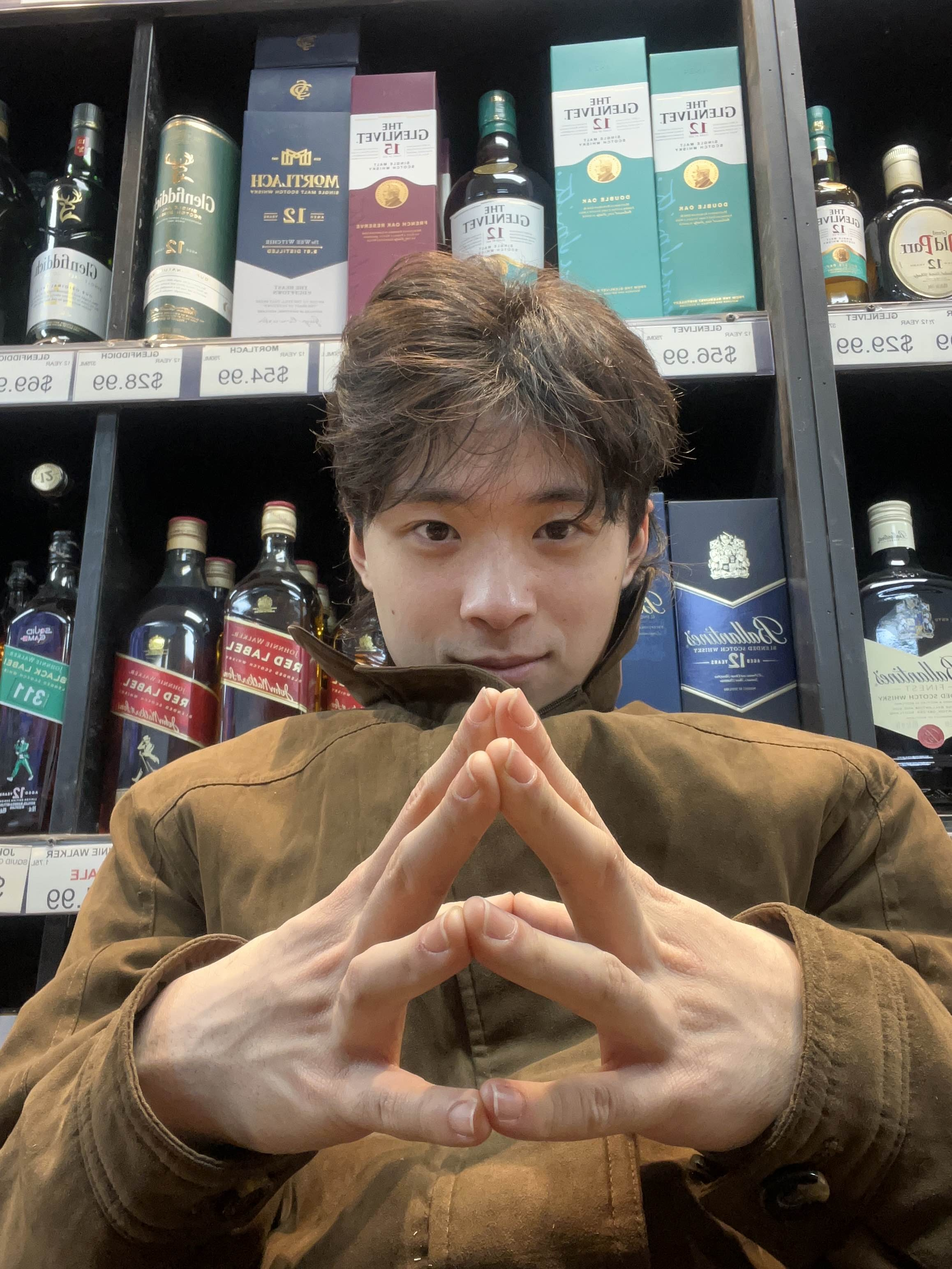
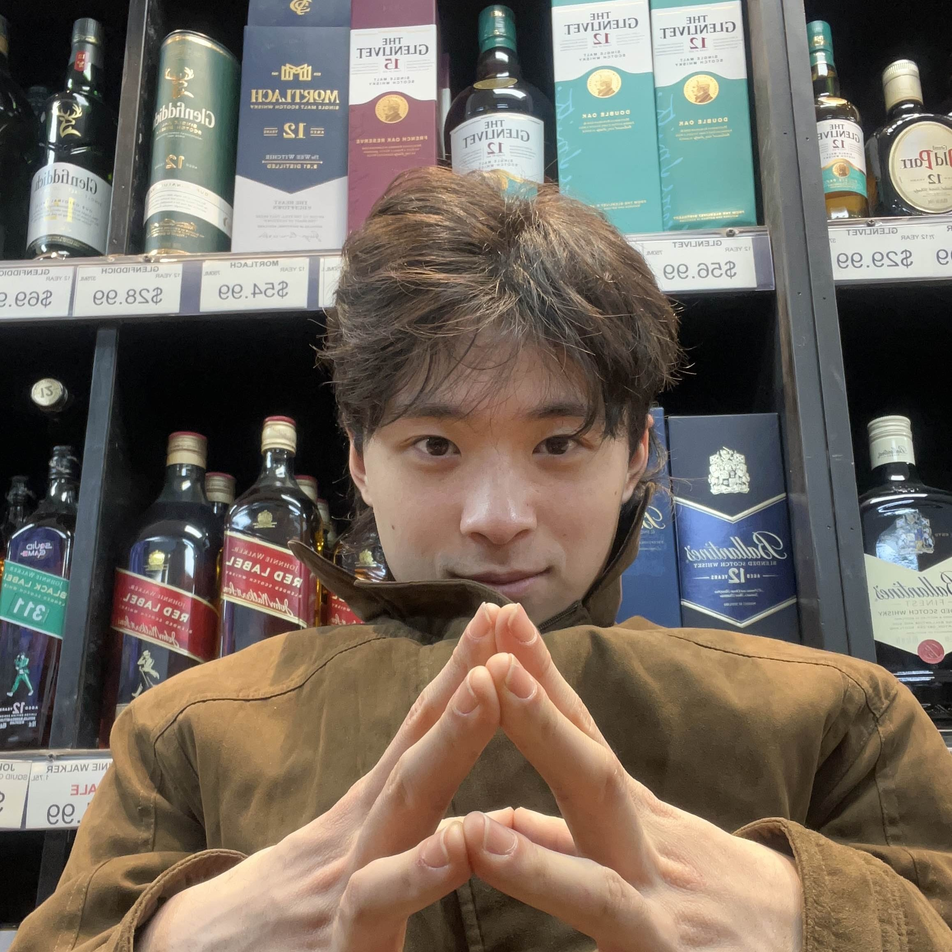
Fix about page profile image shape

diff --git a/_layouts/author.html b/_layouts/author.html
@@ -4,7 +4,7 @@ layout: page
 
 <div class="staff">
   {% if page.photo %}
-    <img class="img-rounded" src="{{ page.photo }}" alt="{{ author.display_name }}">
+    <img class="img-rounded" src="{{ page.photo }}" alt="{{ author.display_name }}" width="200">
   {% else %}
     <img class="img-rounded" src="/assets/img/user.jpg" alt="{{ author.display_name }}">
   {% endif %}

diff --git a/assets/css/styles.scss b/assets/css/styles.scss
@@ -125,5 +125,11 @@ $texts: #333333;        // Text color
   height: 180px;
   border-radius: 50%;
   object-fit: cover;
-  border: 4px solid #000;
+  position: relative;
+  display: block;
+}
+
+.about-img {
+  width: 300px !important;
+  height: 300px !important;
 }

diff --git a/pages/about.md b/pages/about.md
@@ -1,13 +1,13 @@
 ---
 layout: page
 menu: false
-date: '2020-02-27 01:53:59'
+date: '2025-02-05 01:53:59'
 title: About
-description: Some description.
+description: Joseph Wang About Me
 permalink: /about/
 ---
 
-<img class="img-rounded" src="{{ site.baseurl }}/assets/img/uploads/profile.png" alt="SharpeimQ" width="200">
+<img class="img-rounded about-img" src="{{ site.baseurl }}/assets/img/uploads/profile4.jpg" alt="SharpeimQ" width="200">
 
 # About
 
